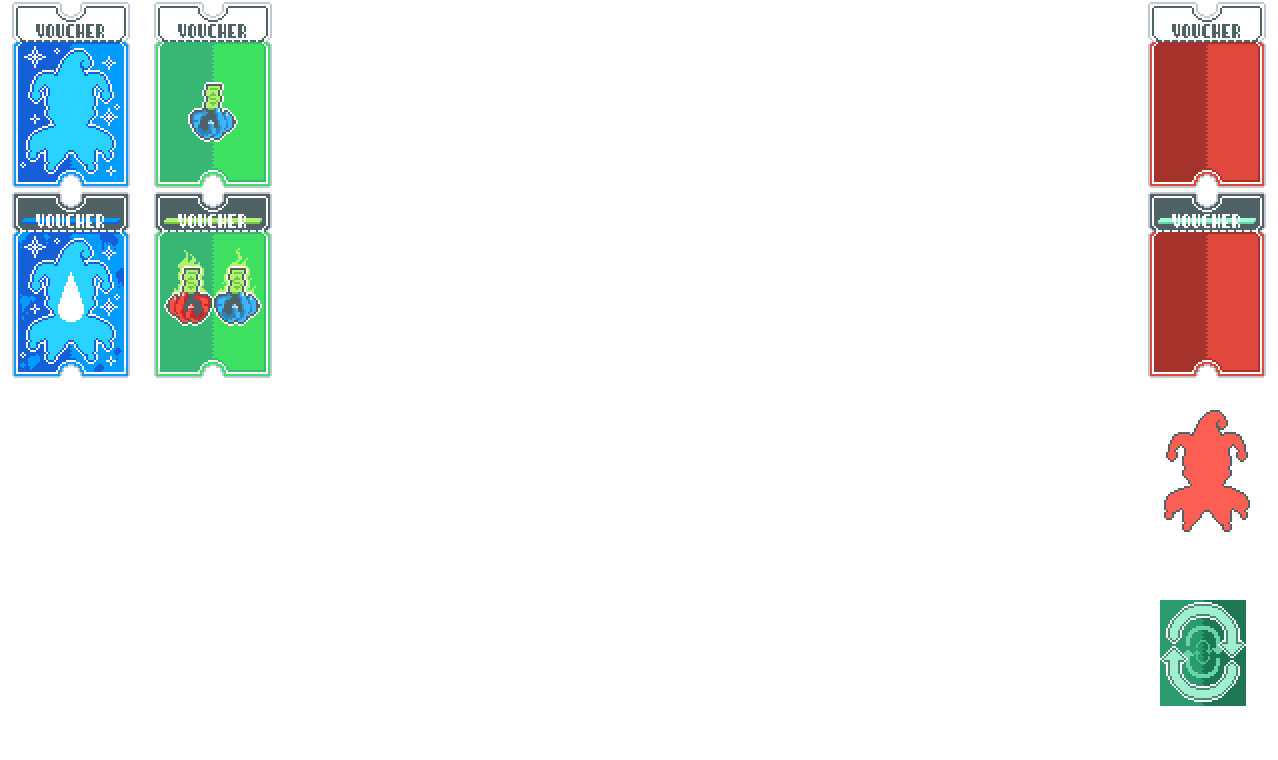
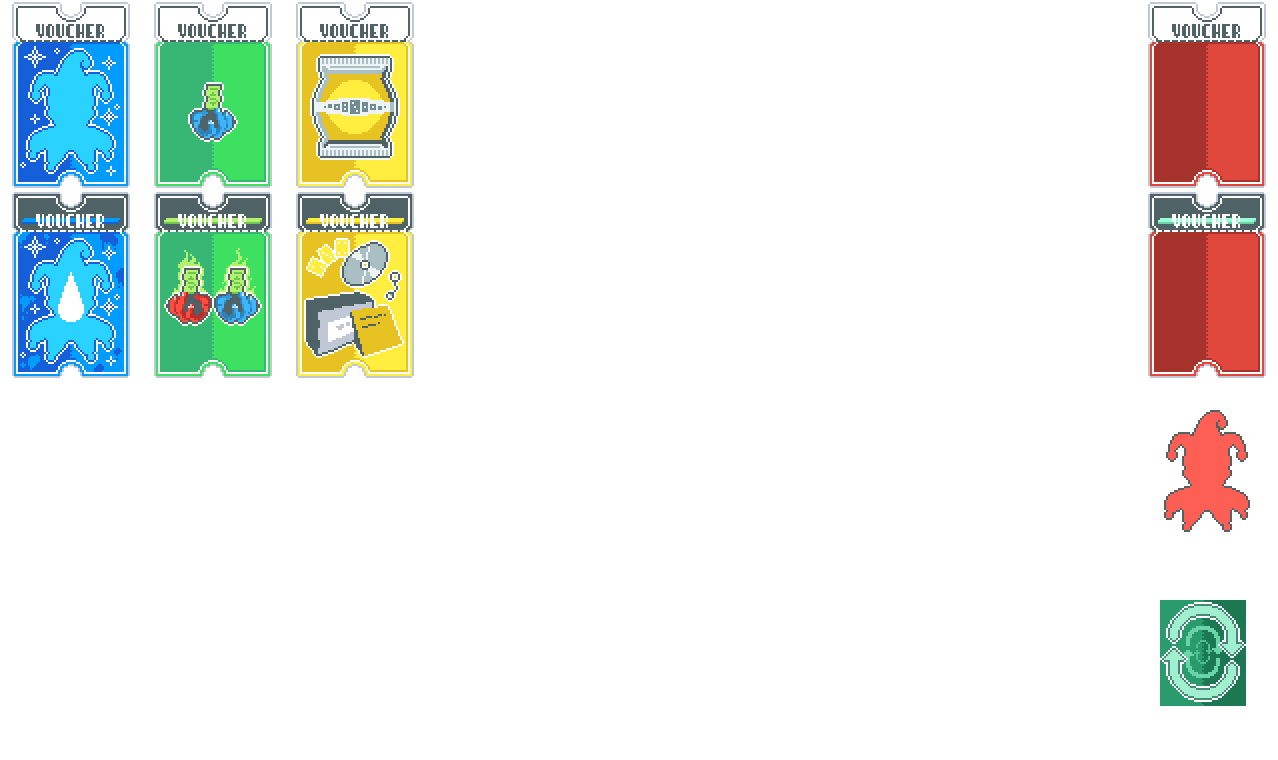
Add packed & collectors edition vouchers

Changed region(s): [[0.2136, 0.0, 0.3357, 0.5145]]

diff --git a/web/addjokers.js b/web/addjokers.js
@@ -1264,6 +1264,22 @@ let shop_items = [
     image_url: "img/v/hoarder.png",
     rarity: "Voucher"
   },
+  {
+    name: "Packed",
+    text: [
+      "{C:attention}+1{} option in {C:attention}Booster Packs{}",
+    ],
+    image_url: "img/v/packed.png",
+    rarity: "Voucher"
+  },
+  {
+    name: "Collector's Edition",
+    text: [
+      "Take {C:attention}+1{} item from {C:attention}Booster Packs{}",
+    ],
+    image_url: "img/v/collectors_edition.png",
+    rarity: "Voucher"
+  },
 ]
 
 let cols = {
